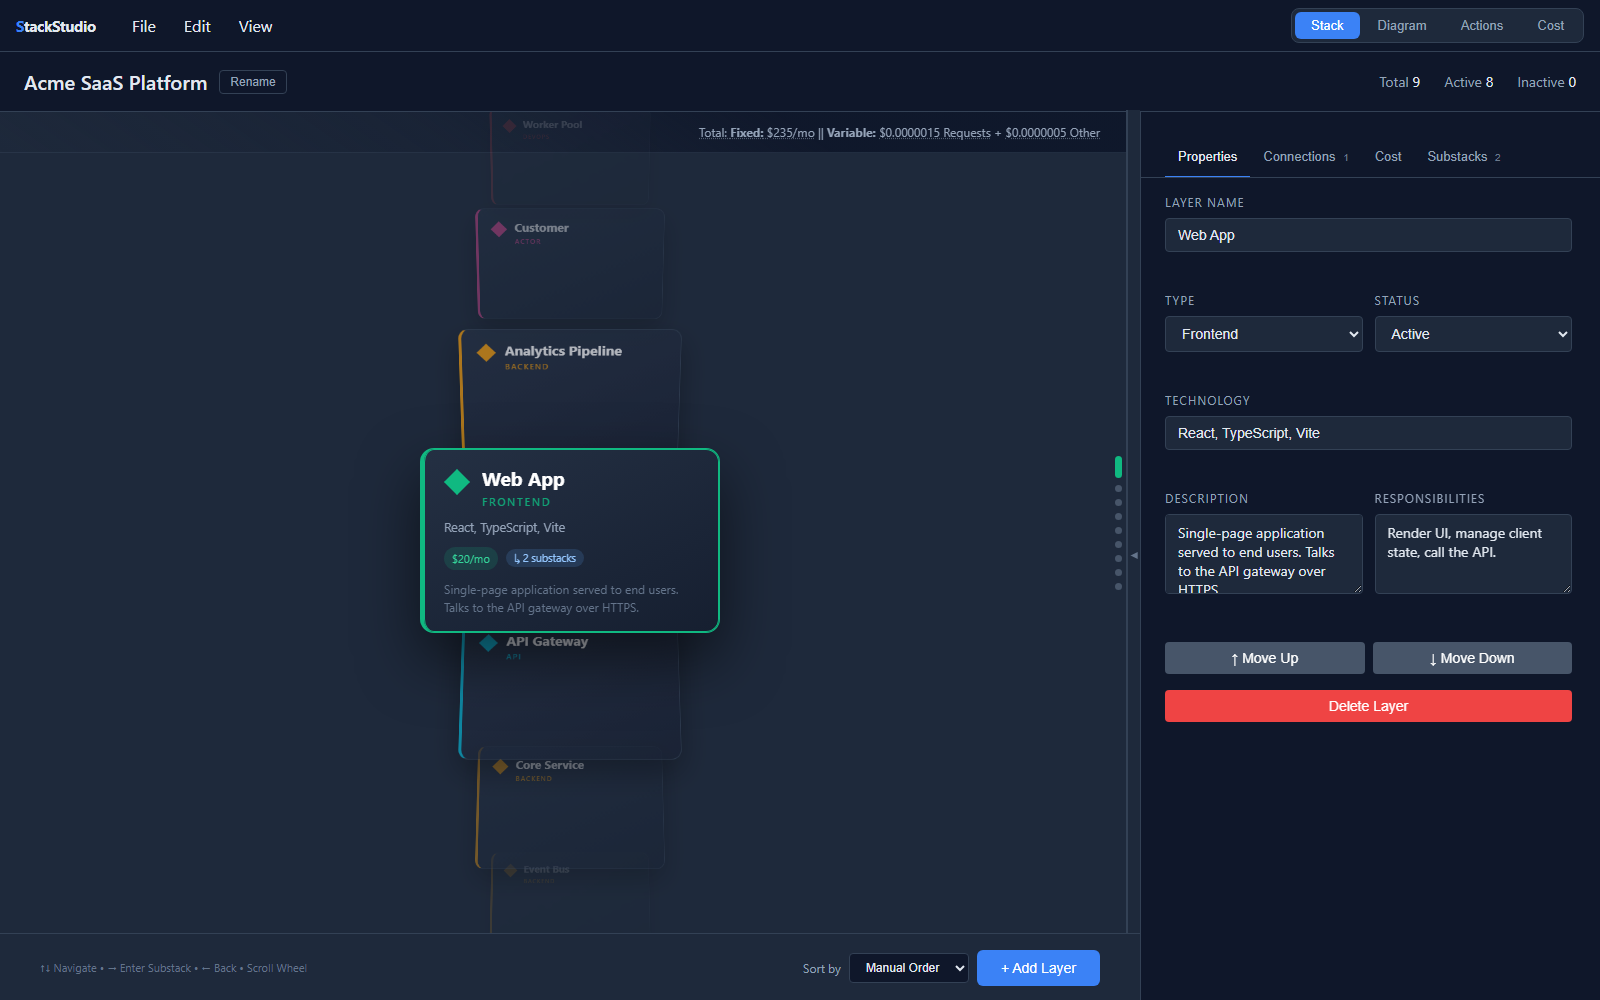
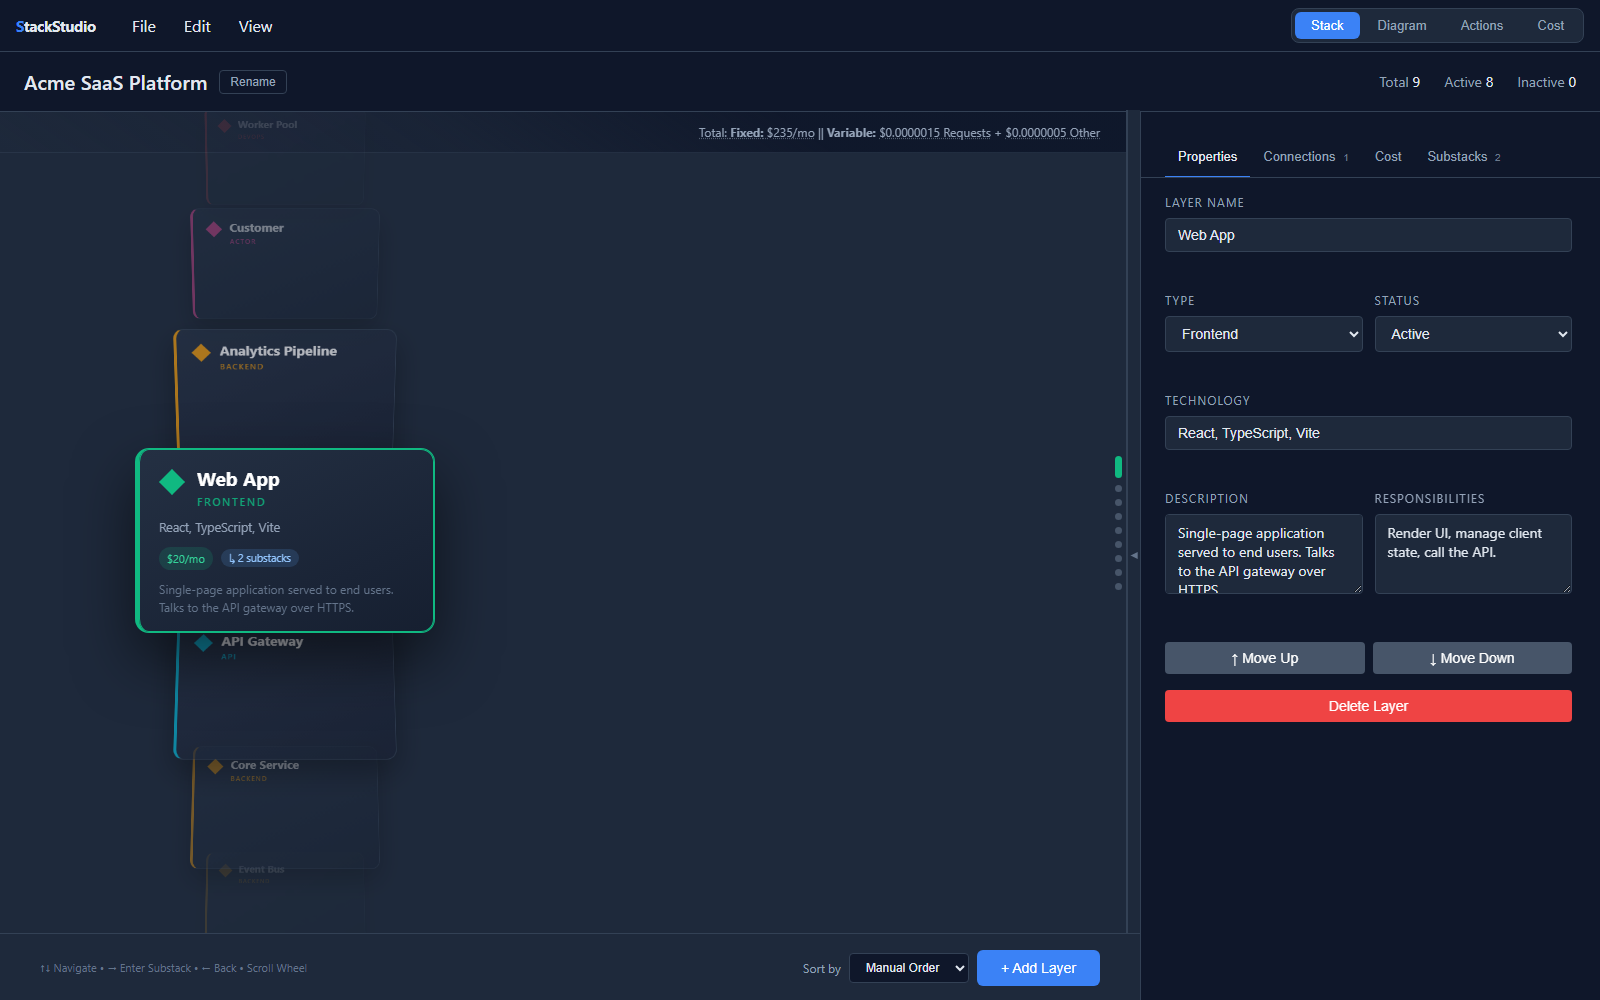
feat(stack): shift lane to 25% left + directional depth slide/fade
- Move the coverflow center line from 50% to 25% from the left edge (card left:25%, perspective-origin 25%), giving the cards more room and a left-anchored composition.
- Refine the depth transition: descending slides the current level LEFT while fading out, then the next level fades in at its resting coverflow positions; ascending reverses (slide right out, parent fades in). Leaving collapses the fan into a uniform shove for a clean fast exit; entering is a pure fade so the new lane's coverflow transforms stay correct.

Timing aligned (180ms leave + fade-in). check-carousel timing bumped for the longer transition. Full suite 20/20.

diff --git a/static/css/style.css b/static/css/style.css
@@ -203,7 +203,7 @@ body {
     position: relative;
     overflow: hidden;
     perspective: 1600px;
-    perspective-origin: 50% 46%;
+    perspective-origin: 25% 46%;
 }
 
 /* A layer card is a real, text-holding panel (coverflow). The diamond is a
@@ -212,7 +212,7 @@ body {
    per-card transform (translateY/Z, rotateX, scale). */
 .layer-card {
     position: absolute;
-    top: 50%; left: 50%;
+    top: 50%; left: 25%;
     width: 300px; min-height: 150px;
     margin: -75px 0 0 -150px;
     background: linear-gradient(155deg, #243043 0%, #1a2436 70%, #161f30 100%);
@@ -394,27 +394,29 @@ body {
 }
 
 /* ---- Depth transition (enter/exit substacks) ----
-   The lane (all cards) slides + fades in the depth direction. 'in' = descending,
-   'out' = ascending. Cards keep their own coverflow transition; we animate the
-   whole container so it reads as a depth push. */
-.stack-container .layer-card {
-    /* base transition already set on .layer-card; depth uses container offset */
-}
+   Descend ('in'): the current level slides LEFT and fades out; the next level
+   fades in at its resting coverflow positions. Ascend ('out'): reverse — the
+   current level slides RIGHT and fades out; the parent level fades in.
+   Leaving overrides the per-card transform with !important (the cards are
+   vanishing, so collapsing the fan into a uniform shove reads cleanly at speed).
+   Entering only fades — the inline coverflow transform stays correct, so the
+   new lane fades in place. */
 .stack-container.depth-leaving-in .layer-card,
 .stack-container.depth-leaving-out .layer-card {
-    transition: transform 0.16s ease-in, opacity 0.16s ease-in !important;
+    transition: transform 0.18s ease-in, opacity 0.18s ease-in !important;
+    opacity: 0 !important;
 }
-.stack-container.depth-leaving-in .layer-card { opacity: 0; }
-.stack-container.depth-leaving-out .layer-card { opacity: 0; }
-/* entering: cards start offset on the depth axis, then animate to rest. These
-   need !important to beat the inline transform/opacity selectLayer() sets; when
-   the class is removed the inline values take over with the base transition. */
+.stack-container.depth-leaving-in  .layer-card { transform: translateX(-180px) scale(0.92) !important; }
+.stack-container.depth-leaving-out .layer-card { transform: translateX(180px) scale(0.92) !important; }
+
+/* entering: start invisible at the (correct) inline transform, then fade in
+   when the class is removed. !important on opacity beats the inline opacity
+   selectLayer() sets; transform is left to the inline value so there's no slide. */
 .stack-container.depth-entering-in .layer-card,
 .stack-container.depth-entering-out .layer-card {
     transition: none !important;
+    opacity: 0 !important;
 }
-.stack-container.depth-entering-in  .layer-card { transform: translateX(120px) scale(0.9) !important; opacity: 0 !important; }
-.stack-container.depth-entering-out .layer-card { transform: translateX(-120px) scale(0.9) !important; opacity: 0 !important; }
 
 .layer-content {
     text-align: center;

diff --git a/static/js/app.js b/static/js/app.js
@@ -805,13 +805,13 @@ function depthTransition(dir, swap) {
     setTimeout(() => {
         sc.classList.remove(outClass);
         swap();                       // rebuild lane (renderLayers + selectLayer)
-        sc.classList.add(inClass);
+        sc.classList.add(inClass);    // new cards start at opacity 0
         requestAnimationFrame(() => {
-            // next frame: removing the class animates from the offset to rest
+            // next frame: removing the class lets the base transition fade them in
             requestAnimationFrame(() => sc.classList.remove(inClass));
         });
-        setTimeout(() => { depthAnimating = false; }, 280);
-    }, 170);
+        setTimeout(() => { depthAnimating = false; }, 460);
+    }, 180);
 }
 
 